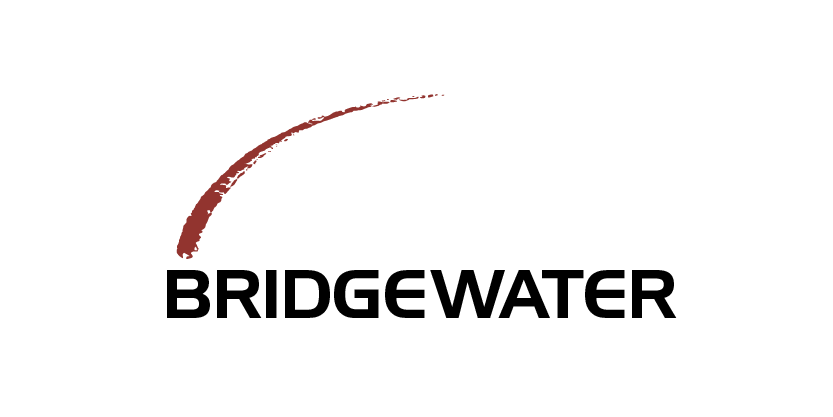
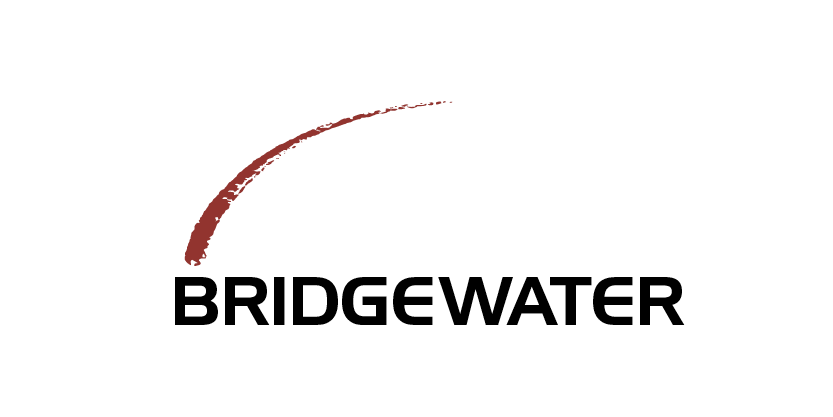
sponsor formatting

Changed region(s): [[0.1873, 0.2182, 0.8427, 0.7794]]

diff --git a/index.html b/index.html
@@ -195,9 +195,9 @@
             </ul> <br>
             <h3><b style= "color: #F2A0A0">Silver Sponsors</b></h3>
             <ul class="list-inline">
-            	<li><a href = "https://www.bridgewater.com/" target = "_blank"><img class="silsponsor img-responsive" src= "img/sponsors/silver/bridgewater.png" alt="Bridgewater"></a></li>
-            	<li><a href = "https://www.point72.com/careers/cubist-systematic-strategies/" target = "_blank"><img class="silsponsor img-responsive" src= "img/sponsors/silver/cubist.jpg" alt="Cubist Systematic Strategies"></a></li>
-            	<li><a href = "http://www.goldmansachs.com/" target = "_blank"><img class="platsponsor img-responsive" src= "img/sponsors/silver/goldman.png" alt="Goldman Sachs"></a></li>
+            	<li><a href = "https://www.bridgewater.com/" target = "_blank"><img class="goldsponsor img-responsive" src= "img/sponsors/silver/bridgewater.png" alt="Bridgewater"></a></li>
+            	<li><a href = "https://www.point72.com/careers/cubist-systematic-strategies/" target = "_blank"><img class="goldsponsor img-responsive" src= "img/sponsors/silver/cubist.jpg" alt="Cubist Systematic Strategies"></a></li>
+            	<li><a href = "http://www.goldmansachs.com/" target = "_blank"><img class="goldsponsor img-responsive" src= "img/sponsors/silver/goldman.png" alt="Goldman Sachs"></a></li>
 				<li><a href = "https://www.google.com/" target = "_blank"><img class="silsponsor img-responsive" src= "img/sponsors/silver/google.png" alt="Google"></a></li>
                 <li><a href = "https://www.mark43.com" target = "_blank"><img class="startup img-responsive" src= "img/sponsors/silver/mark43.png" alt="Mark43"></a></li>
             </ul> <br>
